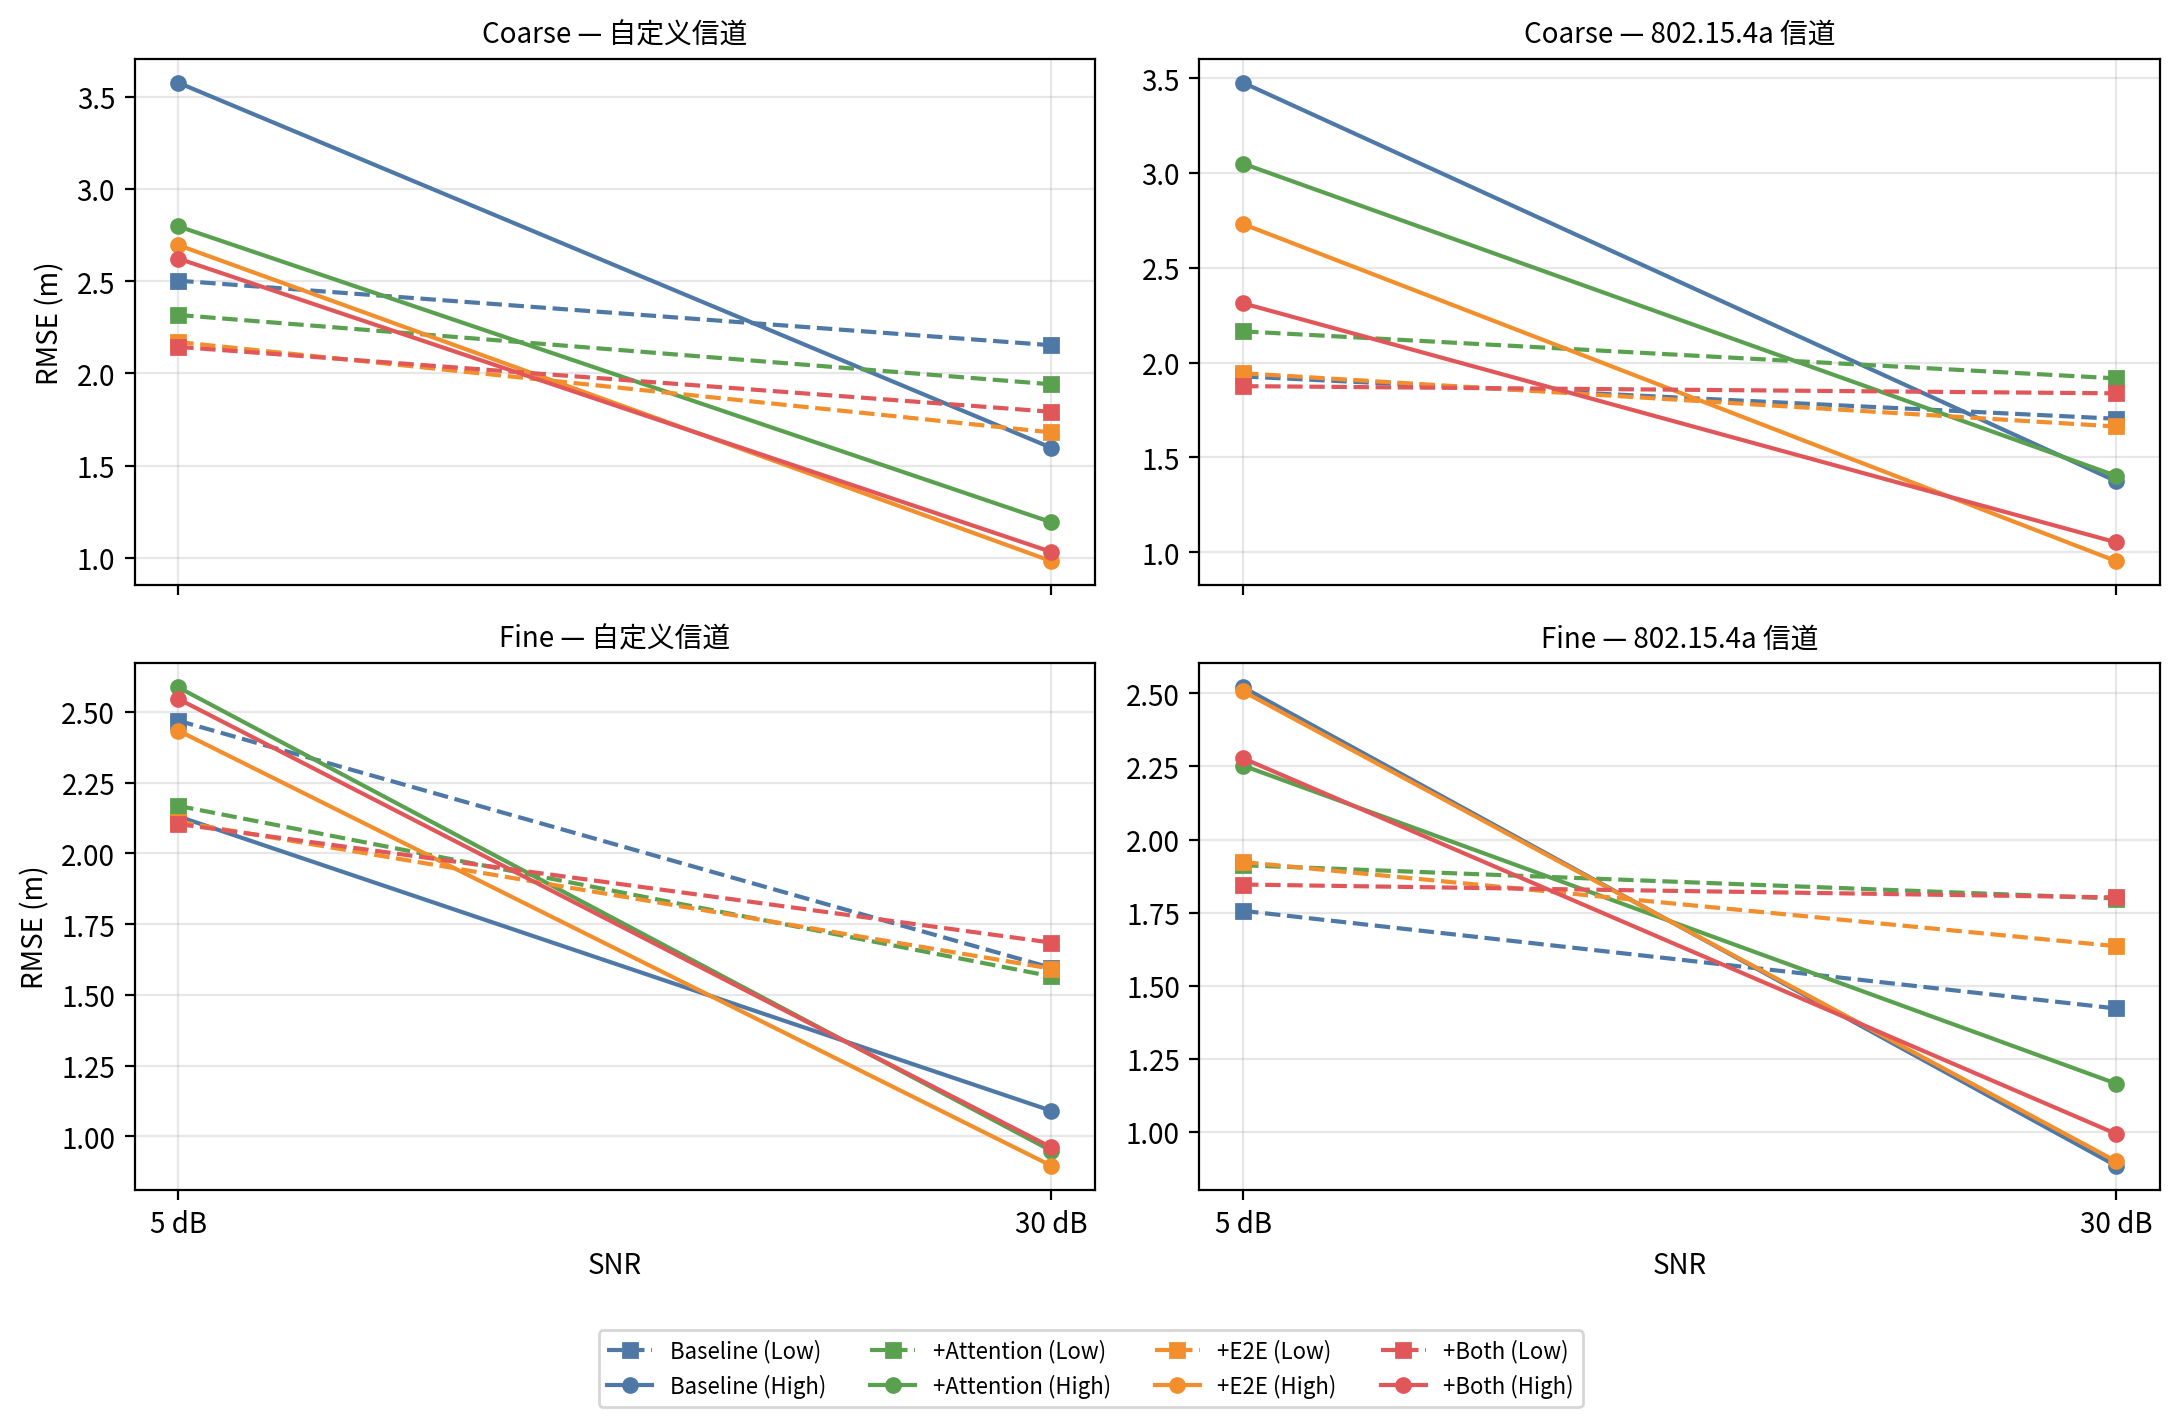
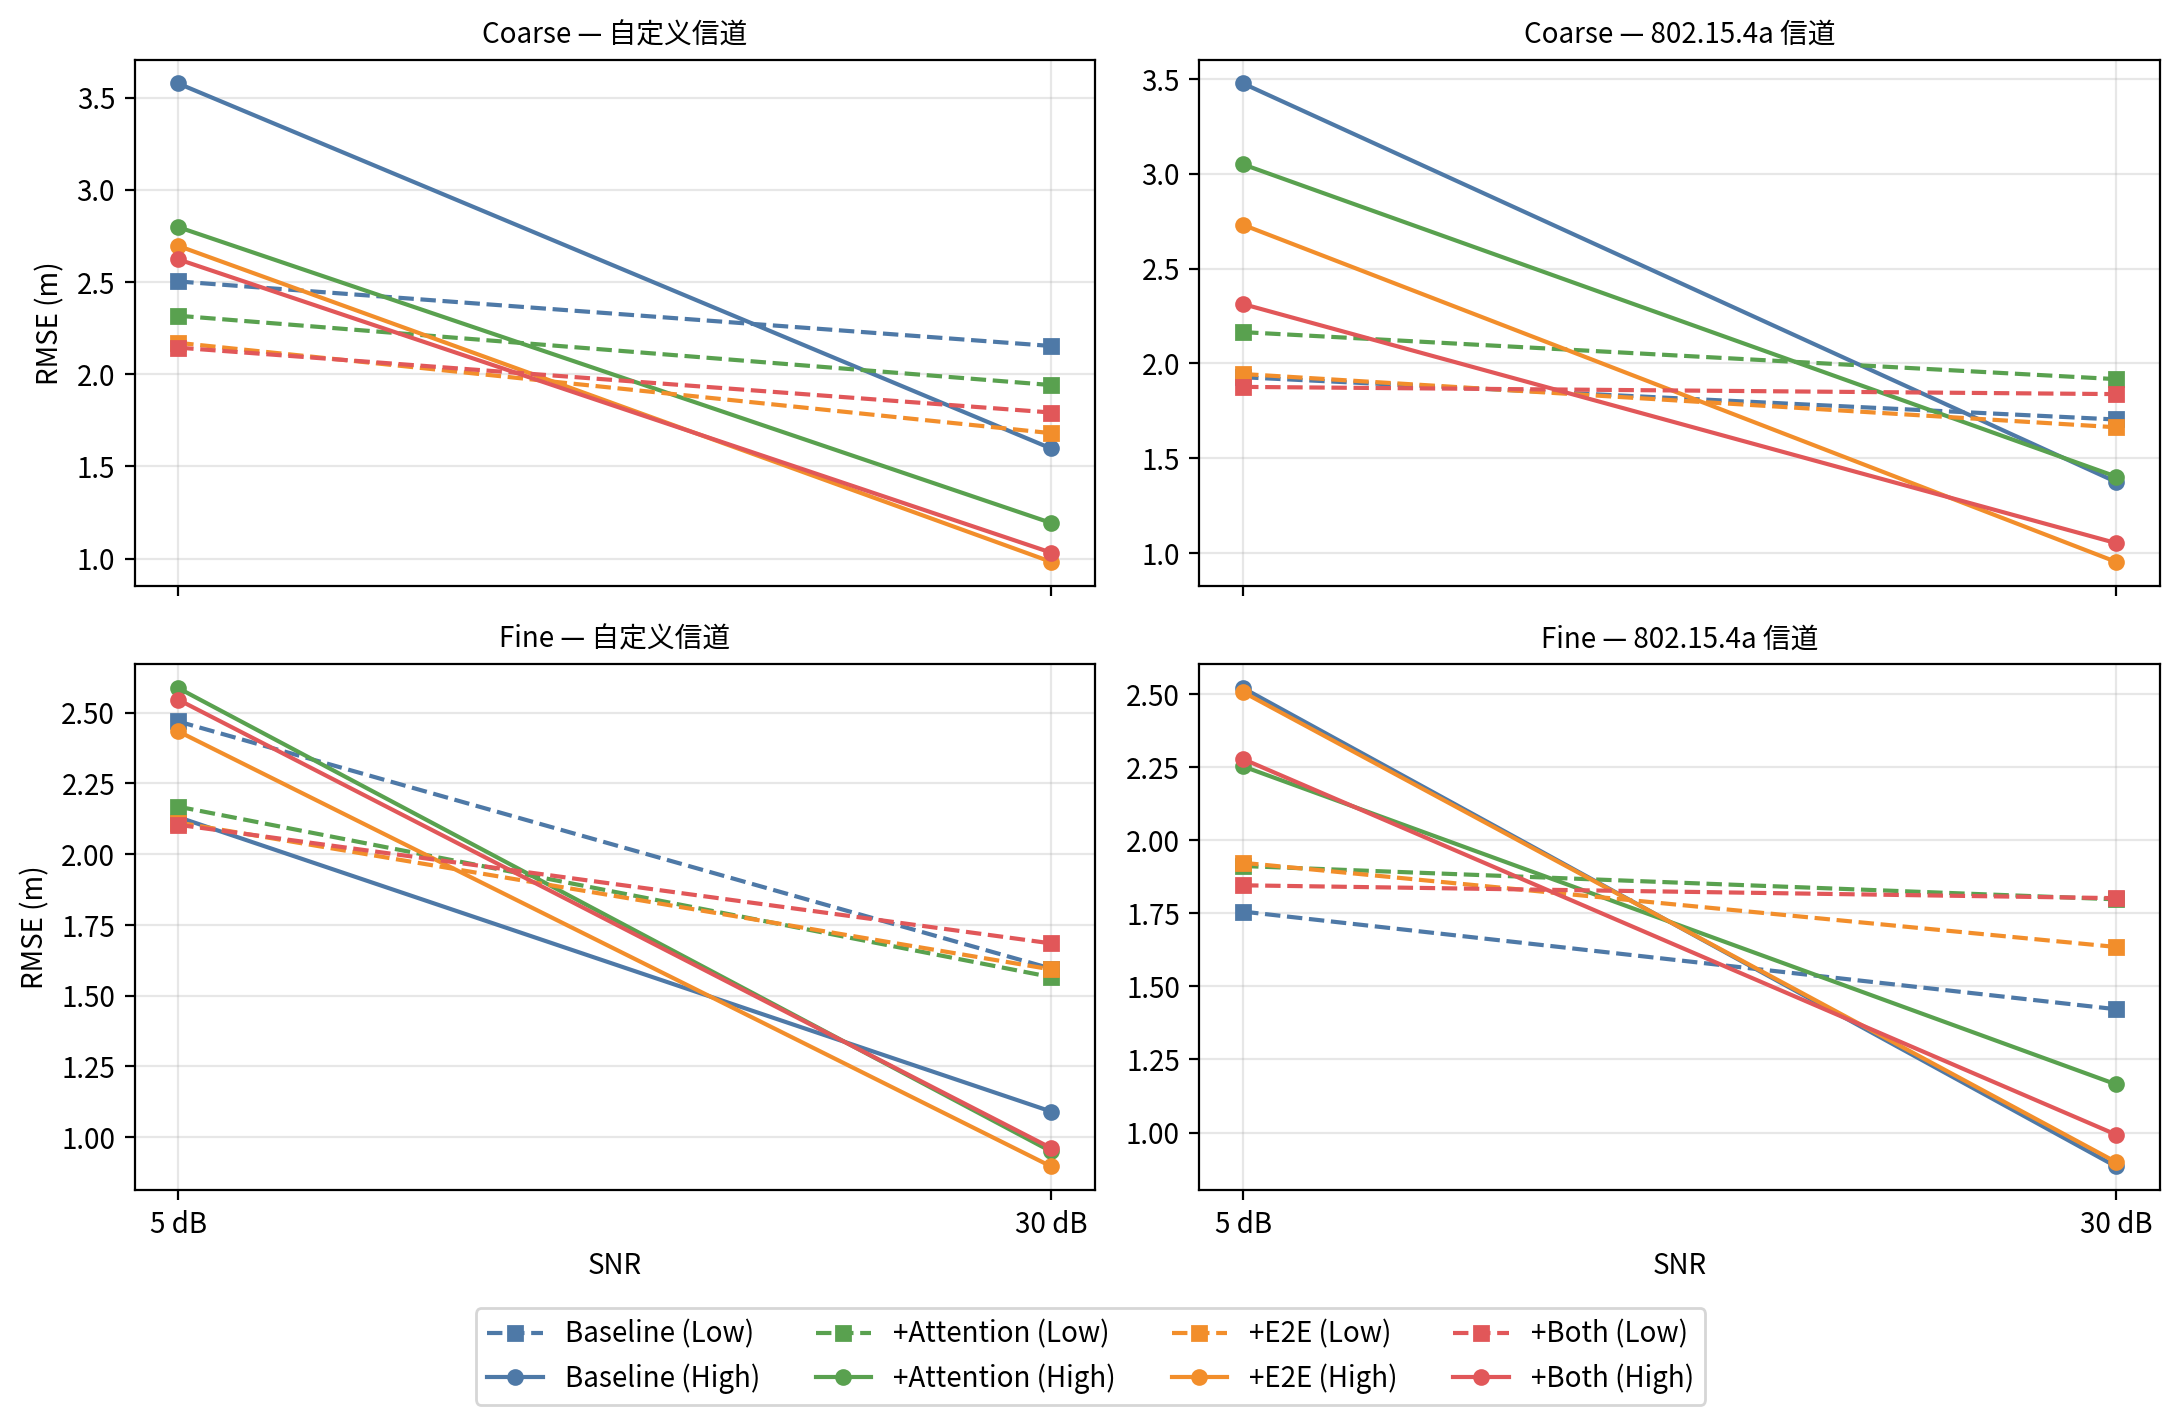
fix: update draw scripts

diff --git a/draw/baseline_cmp.py b/draw/baseline_cmp.py
@@ -28,8 +28,9 @@ def main():
     width = 0.35
 
     fig, ax = plt.subplots(figsize=(8, 4.5))
-    bars1 = ax.bar([i - width / 2 for i in x], rmse_5, width, label='SNR = 5 dB', color=colors, edgecolor='white', linewidth=0.5)
-    bars2 = ax.bar([i + width / 2 for i in x], rmse_30, width, label='SNR = 30 dB', color=colors, edgecolor='white', linewidth=0.5, alpha=0.6)
+    from matplotlib.patches import Patch
+    bars1 = ax.bar([i - width / 2 for i in x], rmse_5, width, color=colors, edgecolor='white', linewidth=0.5)
+    bars2 = ax.bar([i + width / 2 for i in x], rmse_30, width, color=colors, edgecolor='white', linewidth=0.5, alpha=0.6)
 
     for bar in bars1:
         ax.text(bar.get_x() + bar.get_width() / 2, bar.get_height() + 0.08,
@@ -41,7 +42,8 @@ def main():
     ax.set_ylabel('RMSE (m)')
     ax.set_xticks(list(x))
     ax.set_xticklabels(labels, fontsize=9)
-    ax.legend()
+    ax.legend(handles=[Patch(facecolor='#555555', label='SNR = 5 dB'),
+                       Patch(facecolor='#bbbbbb', label='SNR = 30 dB')])
     ax.grid(axis='y', alpha=0.3)
     ax.set_title('基线方法测距RMSE对比')
 

diff --git a/draw/attention_e2e.py b/draw/attention_e2e.py
@@ -79,7 +79,7 @@ def main():
     axes[1][0].set_ylabel('RMSE (m)')
 
     handles, labels = axes[0][0].get_legend_handles_labels()
-    fig.legend(handles, labels, loc='lower center', ncol=4, fontsize=8,
+    fig.legend(handles, labels, loc='lower center', ncol=4, fontsize=10,
               bbox_to_anchor=(0.5, -0.02))
 
     plt.tight_layout(rect=[0, 0.06, 1, 1])

diff --git a/draw/waveform_vis.py b/draw/waveform_vis.py
@@ -34,7 +34,7 @@ def main():
     ax.set_xlabel('子载波索引')
     ax.set_ylabel('功率分配')
     ax.set_title('不同 α 下的子载波功率分配')
-    ax.set_ylim(bottom=0)
+    ax.set_ylim(bottom=0, top=0.08)
     ax.legend()
     ax.grid(True, alpha=0.3)
 

diff --git a/draw/alpha_rmse.py b/draw/alpha_rmse.py
@@ -23,6 +23,7 @@ def main():
                 f'{val:.3f}', va='center', fontsize=9)
 
     ax.set_xlabel('RMSE (m)')
+    ax.set_xlim(left=0, right=9.0)
     ax.set_title('波形设计 α 扫描 — TOA估计RMSE')
     ax.invert_yaxis()
     ax.grid(axis='x', alpha=0.3)
